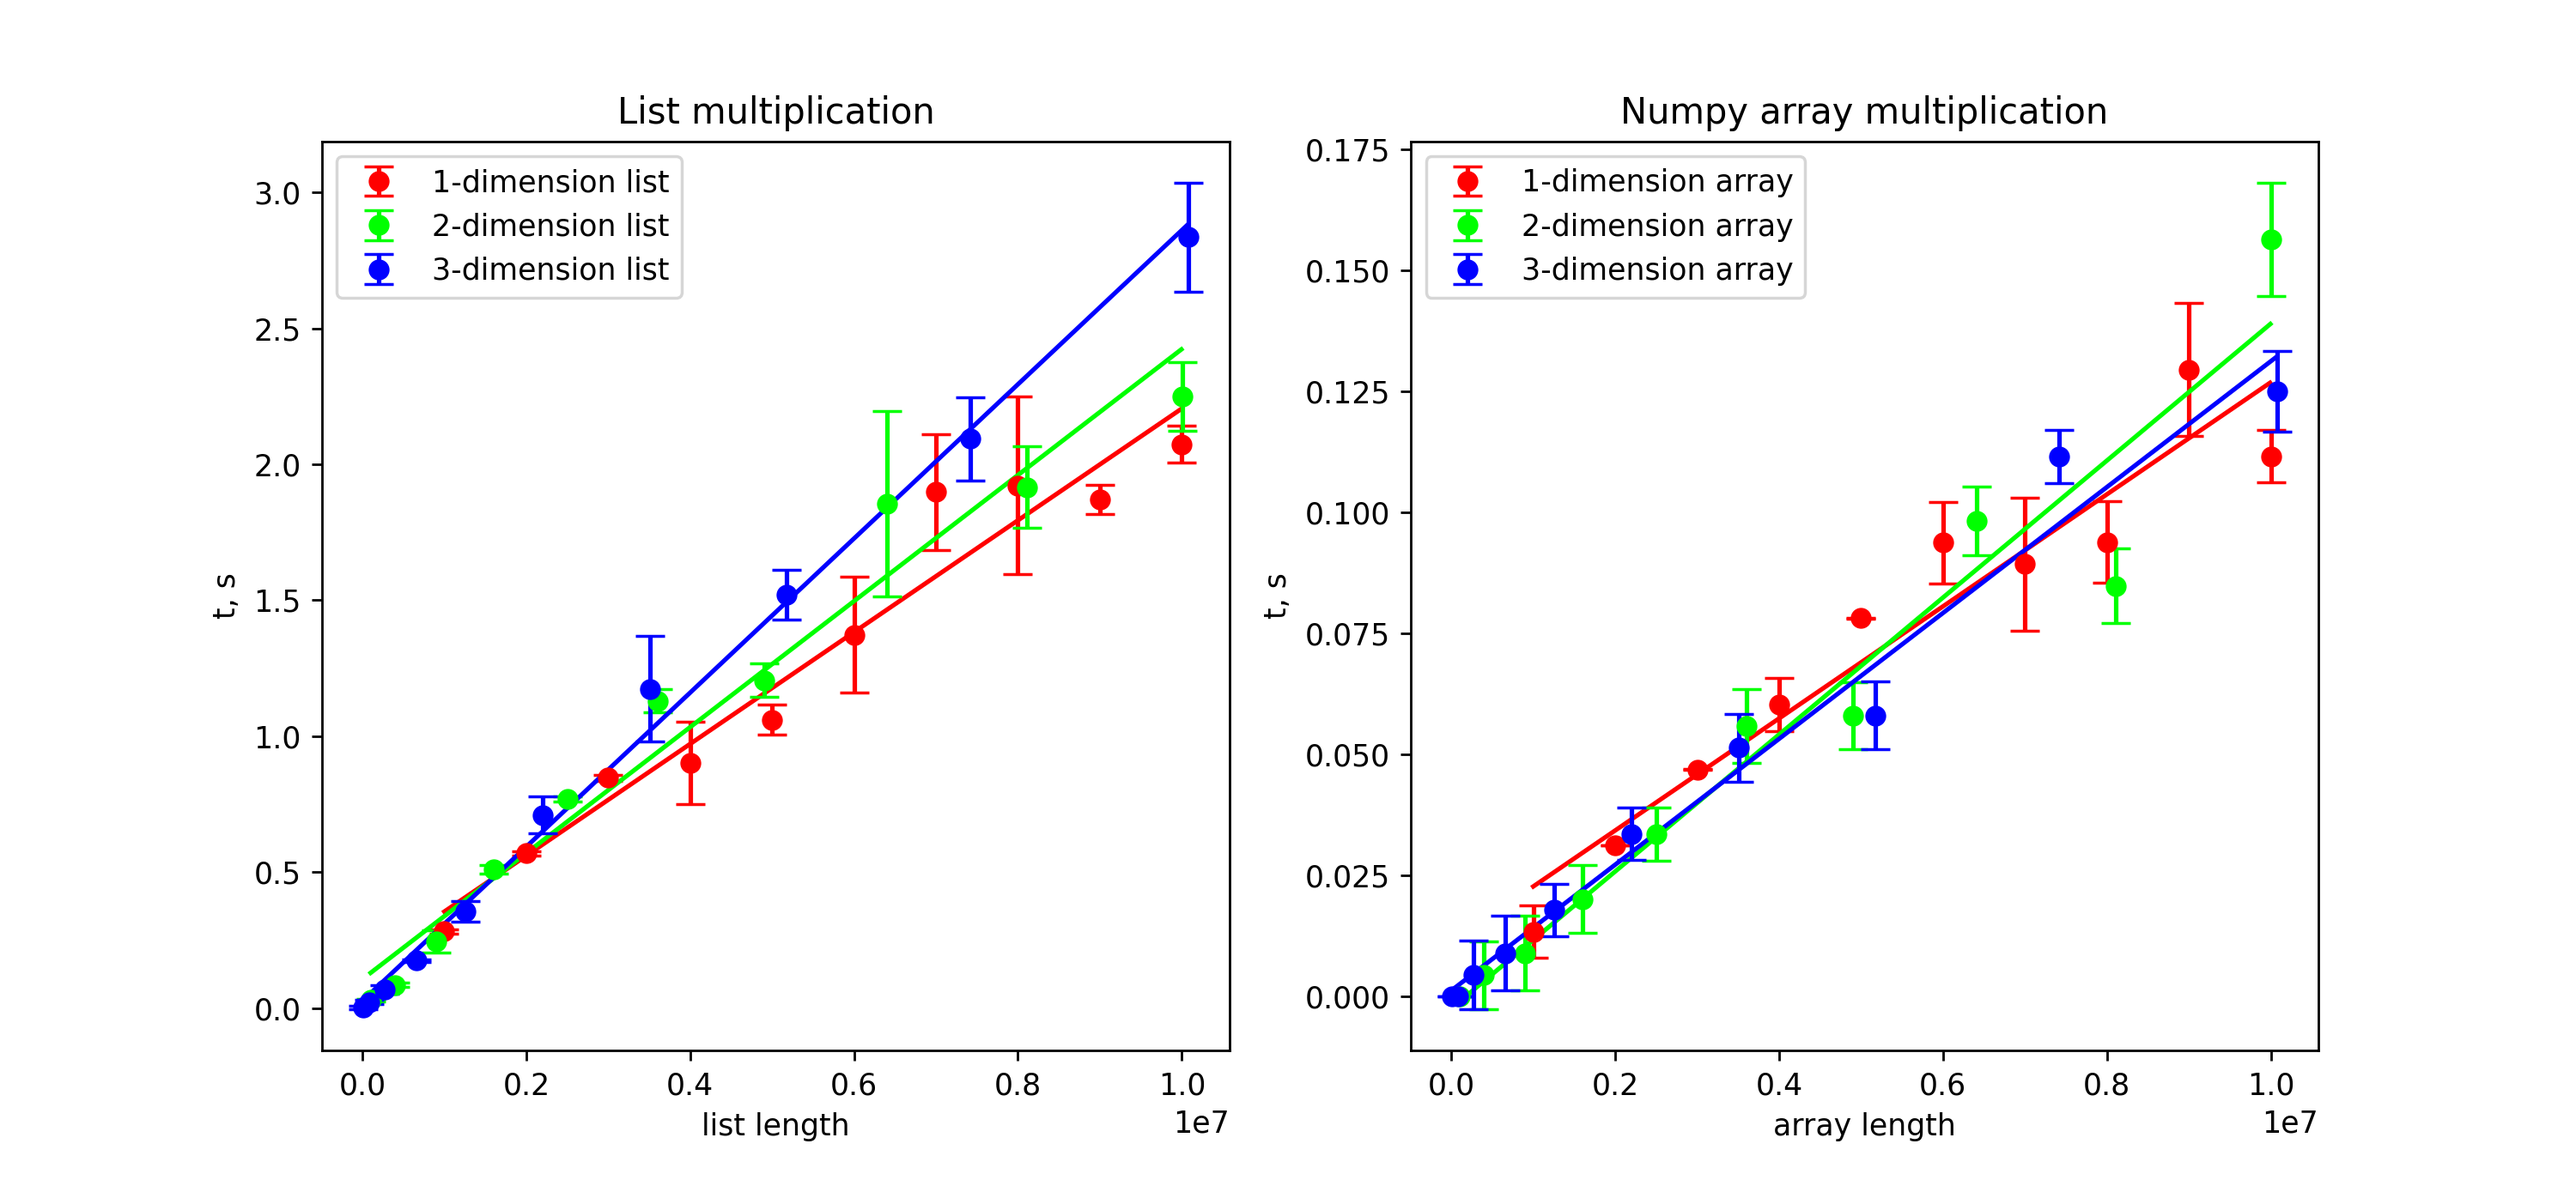
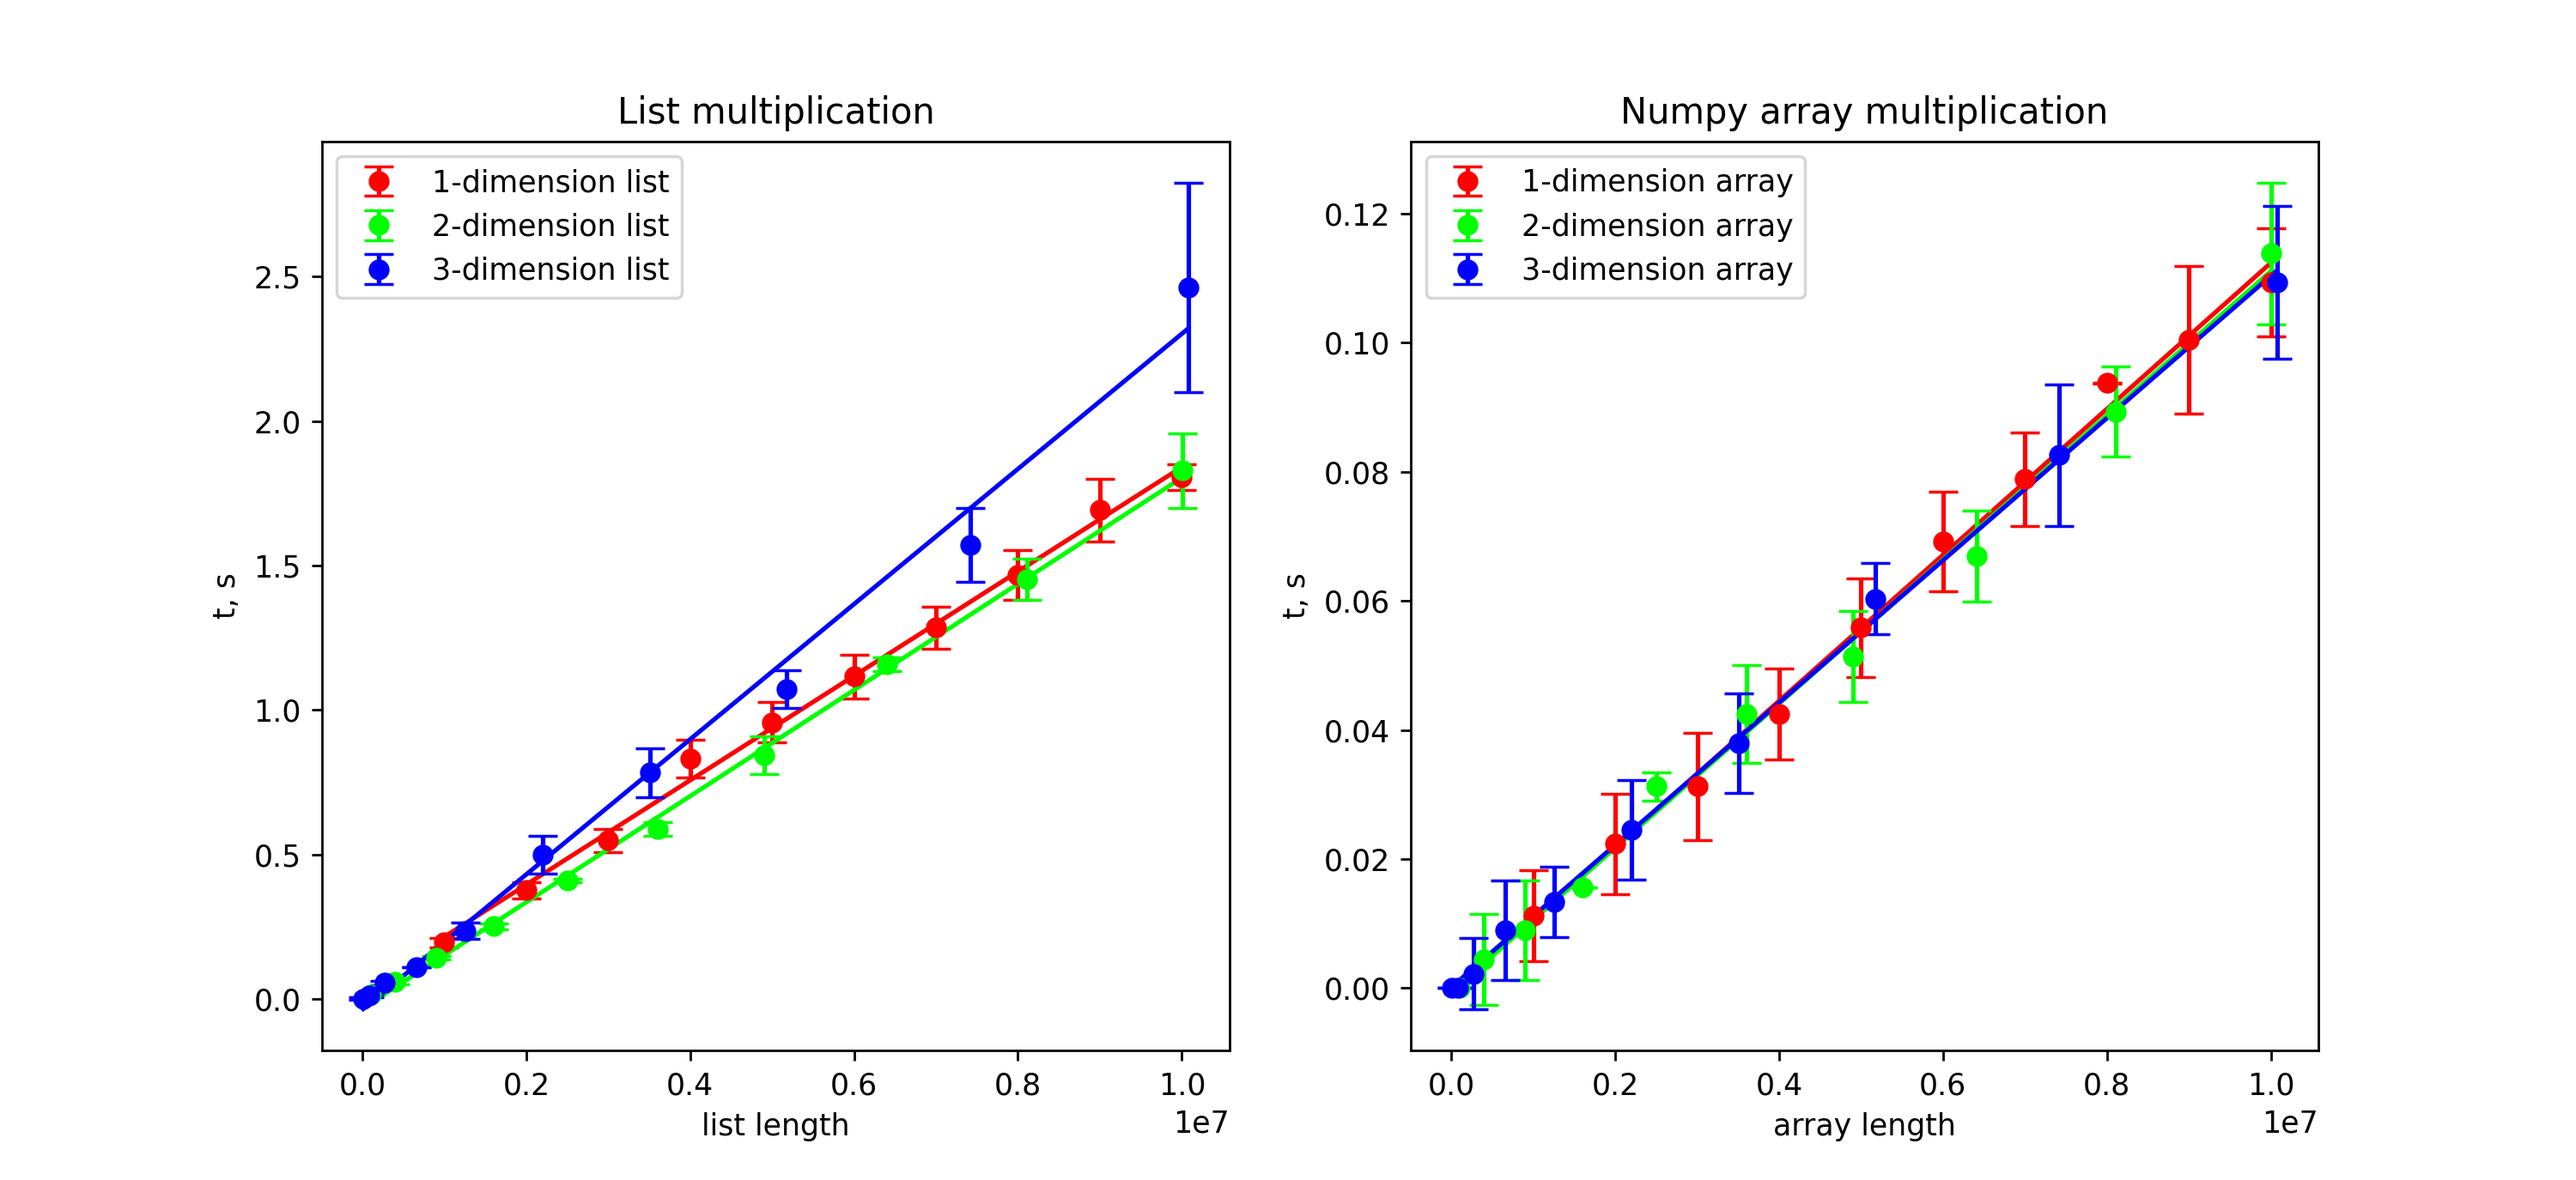
test2

diff --git a/vector_calculation_performance.py b/vector_calculation_performance.py
@@ -49,7 +49,7 @@ def approx(f, x, y, n):
     return [[lb + j * h for j in range(n)], [f(lb + i * h, *(__ for __ in args)) for i in range(n)]]
 
 
-maxsize = 10000000
+maxsize = 1000000
 repeat_times = 7
 num_measurements = 10
 max_lengths = [maxsize, math.ceil(math.sqrt(maxsize)), math.ceil(math.pow(maxsize, 1 / 3))]
